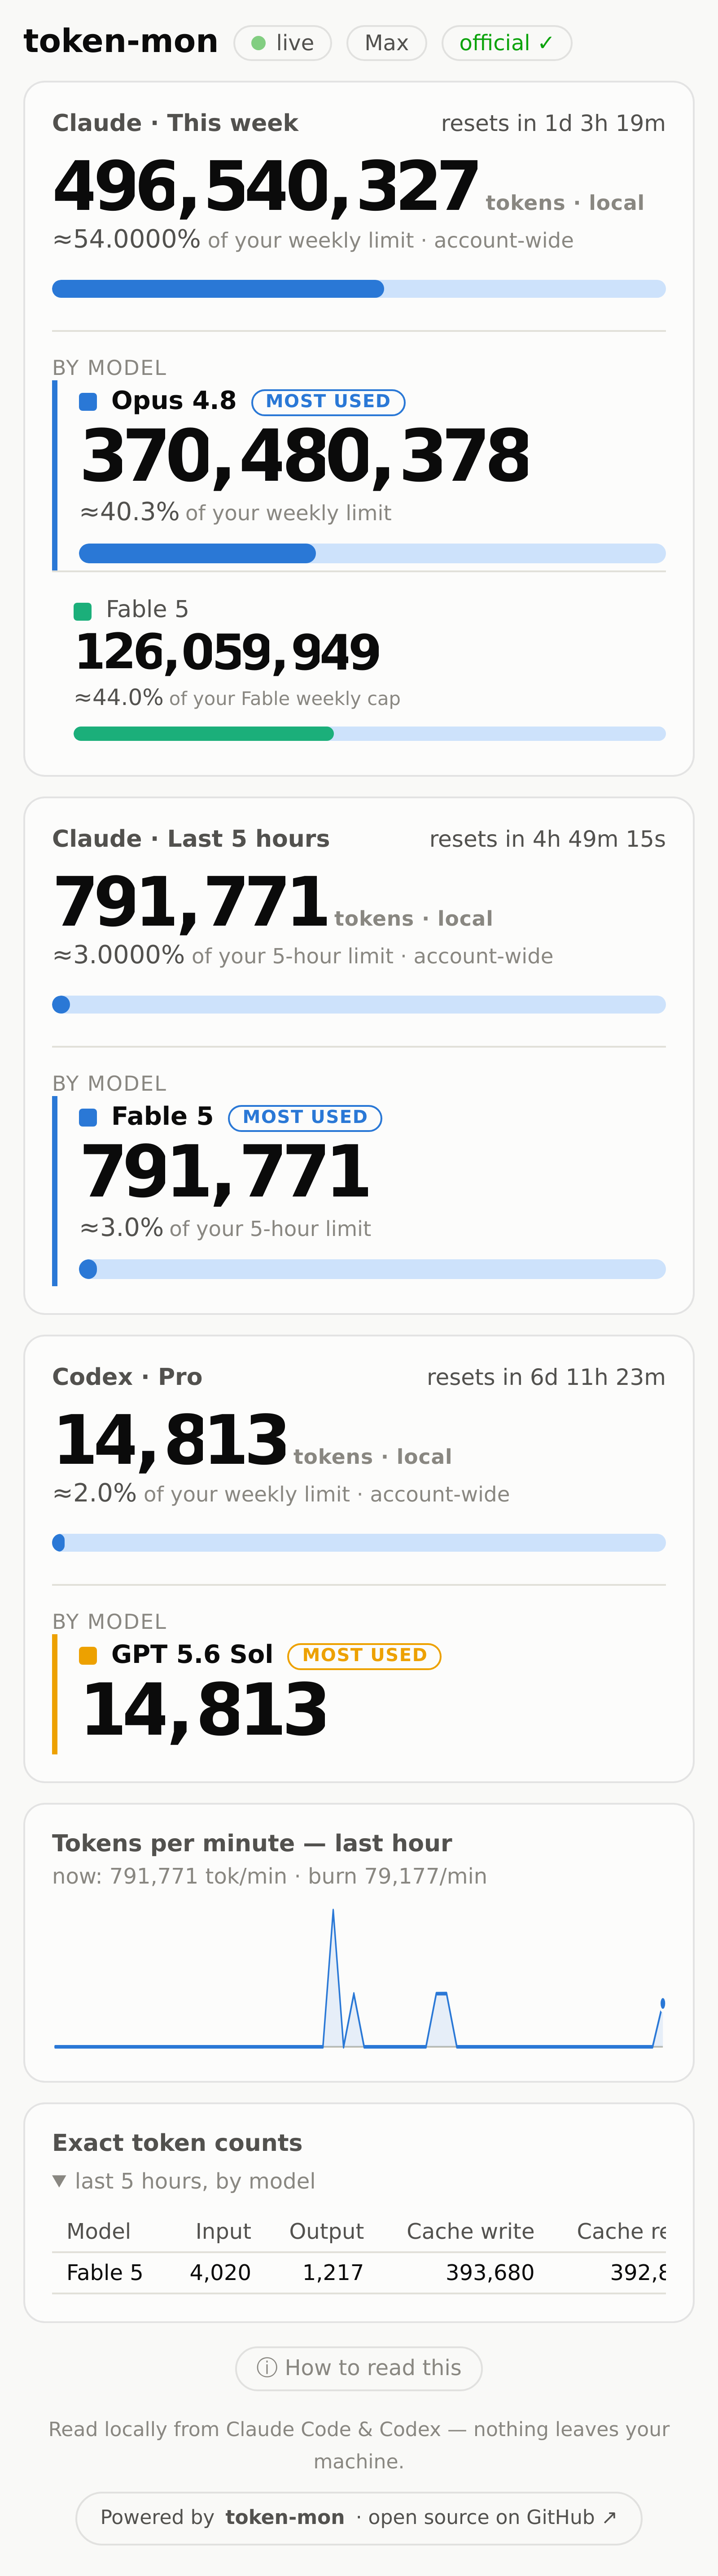
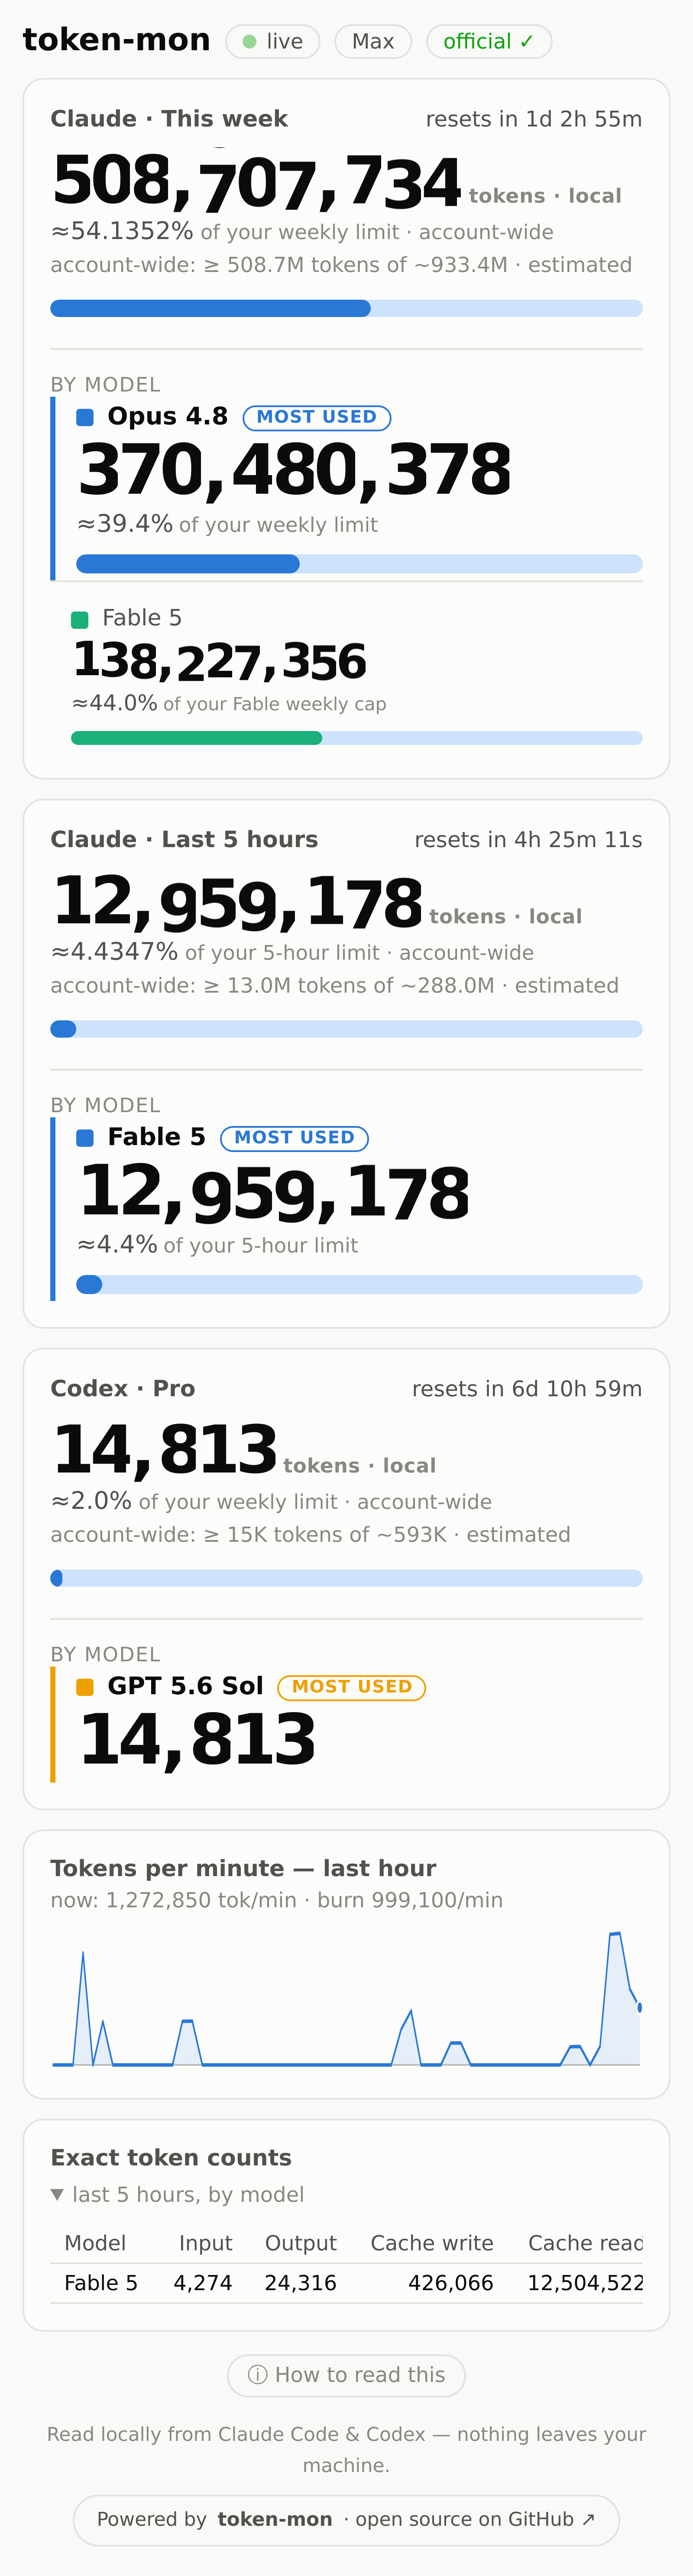
Best-effort account-wide token estimate
Neither provider exposes absolute account-wide numbers, so derive a floor: every
(local tokens, official %) reading bounds the account's tokens-per-percent from
below; cumulative and delta samples ratchet a persisted best ratio upward
(rounding-padded so it never overstates). Cards show
"account-wide: >= N tokens of ~L · estimated" under the percentage.

Claude-Session: https://claude.ai/code/session_01XbNfyBsCw2YkS5ZYWFRxGC

diff --git a/index.html b/index.html
@@ -73,6 +73,8 @@
   .unit { font-size:.30em; font-weight:600; color:var(--muted); margin-left:.4em; margin-bottom:.26em; letter-spacing:.02em; white-space:nowrap; }
   .hero-pct { font-size:14px; color:var(--ink-2); font-variant-numeric:tabular-nums; margin:3px 0 14px; }
   .hero-pct small { color:var(--muted); font-weight:400; }
+  .hero-est { font-size:12px; color:var(--muted); font-variant-numeric:tabular-nums; margin:-10px 0 13px; }
+  .hero-est:empty { display:none; }
   .meter { height:10px; border-radius:5px; background:var(--track); overflow:hidden; }
   .meter.sm { height:7px; }
   .meter .fill { height:100%; width:0%; background:var(--accent); border-radius:5px; transition:width .5s cubic-bezier(.22,1,.36,1), background-color .4s; }
@@ -141,6 +143,7 @@
     <div class="row-between"><div class="label">Claude · This week</div><div class="reset" id="wkReset"></div></div>
     <div class="hero-num"><span class="od" id="wkTok"></span><span class="unit">tokens · local</span></div>
     <div class="hero-pct">≈<span id="wkPctV">–</span>%<small> of your weekly limit · account-wide</small></div>
+    <div class="hero-est" id="wkEst"></div>
     <div class="meter"><div class="fill" id="wkFill"></div></div>
     <div class="bymodel-head">by model</div>
     <div id="wkModelWrap"></div>
@@ -151,6 +154,7 @@
     <div class="row-between"><div class="label">Claude · Last 5 hours</div><div class="reset" id="sessReset"></div></div>
     <div class="hero-num"><span class="od" id="sessTok"></span><span class="unit">tokens · local</span></div>
     <div class="hero-pct">≈<span id="sessPctV">–</span>%<small> of your 5-hour limit · account-wide</small></div>
+    <div class="hero-est" id="sessEst"></div>
     <div class="meter"><div class="fill" id="sessFill"></div></div>
     <div class="bymodel-head">by model</div>
     <div id="modelWrap"></div>
@@ -161,6 +165,7 @@
     <div class="row-between"><div class="label">Codex · <span id="cxPlan">–</span></div><div class="reset" id="cxReset"></div></div>
     <div class="hero-num"><span class="od" id="cxTok"></span><span class="unit">tokens · local</span></div>
     <div class="hero-pct">≈<span id="cxPctV">–</span>%<small> of your <span id="cxWin">weekly</span> limit · account-wide</small></div>
+    <div class="hero-est" id="cxEst"></div>
     <div class="meter"><div class="fill" id="cxFill"></div></div>
     <div class="bymodel-head" id="cxByHead" style="display:none">by model</div>
     <div id="cxModelWrap"></div>
@@ -195,7 +200,10 @@
       <p><b>Local vs account-wide.</b> The <b>≈percentages are account-wide</b> — they're the official
       figures, so they include every device, the web app, and mobile. The <b>token counts cover only this
       machine</b> (what its local logs contain). If you also use Claude or Codex elsewhere, the percentage will
-      read higher than these token counts alone would suggest — that's expected, not a bug.</p>
+      read higher than these token counts alone would suggest — that's expected, not a bug. The
+      <b>“account-wide: ≥ …” line is a best-effort estimate</b>: neither provider publishes absolute account
+      numbers, so it's derived by relating your local tokens to the official percentage over time. It's a
+      floor that sharpens the longer token-mon runs.</p>
       <p><b>Codex.</b> If OpenAI's Codex CLI is installed, its usage appears the same way — exact tokens from
       <code>~/.codex/sessions</code>, official percentages from your own ChatGPT login.</p>
       <p><b>Private.</b> Everything is computed locally from <code>~/.claude</code> and <code>~/.codex</code>;
@@ -308,12 +316,14 @@ function onSnapshot(s){
   wkTok.set(fmt(week.tokens.total));
   const wpct = week.pct==null ? 0 : week.pct;
   const wf=el("wkFill"); wf.className="fill "+sevClass(week.severity, wpct); wf.style.width=Math.min(100,wpct)+"%";
+  setEst("wkEst", week.acctEst, week.tokens.total);
   renderModelTickers("wkModelWrap", week.models||[], stWk, {limit:week.limit, total:week.tokens.total, scoped:week.scoped||[], noun:"weekly"});
 
   // LAST 5 HOURS — same shape
   sessTok.set(fmt(sess.tokens.total));
   const spct = sess.pct==null ? 0 : sess.pct;
   const sf=el("sessFill"); sf.className="fill "+sevClass(off.session&&off.session.severity, spct); sf.style.width=Math.min(100,spct)+"%";
+  setEst("sessEst", sess.acctEst, sess.tokens.total);
   renderModelTickers("modelWrap", sess.models||[], st5h, {limit:sess.limit, total:sess.tokens.total, scoped:[], noun:"5-hour"});
 
   renderCodex(s.codex);
@@ -363,6 +373,13 @@ function renderModelTickers(wrapId, models, st, opts){
   }
 }
 
+function setEst(id, est, localTok){
+  const n=el(id);
+  if(!est || !est.tokens){ n.textContent=""; return; }
+  const v=Math.max(est.tokens, localTok||0);
+  n.textContent=`account-wide: ≥ ${compact(v)} tokens of ~${compact(est.limit)} · estimated`;
+}
+
 function renderCodex(cx){
   const card=el("cxCard");
   if(!cx || !cx.ok){ card.style.display="none"; return; }
@@ -373,6 +390,7 @@ function renderCodex(cx){
   el("cxReset").dataset.reset=w.resets_at||"";
   const pct=w.pct==null?0:w.pct;
   el("cxPctV").textContent=Number(pct).toFixed(1);
+  setEst("cxEst", cx.acctEst, cx.tokens.total);
   const f=el("cxFill"); f.className="fill "+sevClass(null,pct); f.style.width=Math.min(100,pct)+"%";
   cxTok.set(fmt(cx.tokens.total));
   const models=cx.models||[];

diff --git a/server.py b/server.py
@@ -22,6 +22,7 @@ needed. Use --no-usage to disable the endpoint (transcripts only), or --plan /
 
 import argparse
 import json
+import os
 import re
 import subprocess
 import threading
@@ -513,6 +514,68 @@ class CodexUsage:
             time.sleep(backoff)
 
 
+class AcctEstimator:
+    """Best-effort estimate of ACCOUNT-WIDE tokens, which no provider exposes.
+
+    Principle: local tokens are a subset of account tokens, so any observed
+    (local tokens) / (official %) ratio is a LOWER bound on the account's
+    tokens-per-percent. We record the best ratio ever seen — from cumulative
+    window readings and from deltas between consecutive official readings
+    (intervals where only this machine was active converge to the true ratio).
+    Denominators are padded for the official %'s integer rounding, so the
+    estimate stays a floor, never an overstatement. Best ratios persist to disk
+    so the estimate sharpens over days, not per-run."""
+
+    def __init__(self, path):
+        self.path = path
+        self.lock = threading.Lock()
+        self.best = {}   # key -> tokens per 1% of the account limit
+        self.last = {}   # key -> (pct, tokens) anchor for delta samples
+        try:
+            d = json.load(open(path))
+            self.best = {k: float(v) for k, v in d.get("best", {}).items()}
+        except Exception:
+            pass
+
+    def _save(self):
+        try:
+            tmp = str(self.path) + ".tmp"
+            with open(tmp, "w") as f:
+                json.dump({"best": self.best}, f)
+            os.replace(tmp, self.path)
+        except OSError:
+            pass
+
+    def sample(self, key, local_tokens, pct):
+        if pct is None or local_tokens is None:
+            return
+        with self.lock:
+            updated = False
+            if pct >= 2:
+                r = local_tokens / (pct + 0.5)          # rounding-safe floor
+                if r > self.best.get(key, 0):
+                    self.best[key] = r
+                    updated = True
+            lp = self.last.get(key)
+            if lp is None or pct < lp[0] or local_tokens < lp[1]:
+                self.last[key] = (pct, local_tokens)    # window reset / first sight
+            elif pct - lp[0] >= 2:
+                r = (local_tokens - lp[1]) / (pct - lp[0] + 1.0)
+                if r > self.best.get(key, 0):
+                    self.best[key] = r
+                    updated = True
+                self.last[key] = (pct, local_tokens)
+            if updated:
+                self._save()
+
+    def estimate(self, key, pct, local_tokens):
+        r = self.best.get(key)
+        if not r or pct is None:
+            return None
+        # account usage can never be below what this machine alone produced
+        return {"tokens": max(pct * r, local_tokens or 0), "limit": 100 * r}
+
+
 def ev_total(e):
     return e["in"] + e["out"] + e["cw"] + e["cr"]
 
@@ -571,6 +634,7 @@ class State:
         self.fallback_limit = fallback_limit
         self.codex_scanner = codex_scanner
         self.codex_usage = codex_usage
+        self.est = AcctEstimator(Path(__file__).parent / ".state.json")
         self._cache = (0.0, None)
         self.lock = threading.Lock()
 
@@ -606,13 +670,18 @@ class State:
                                "resets_at": a.get("resets_at")})
         # Zero rows say nothing: drop models with no usage and no cap consumption.
         models = [m for m in models if m["total"] > 0 or (m.get("pct") or 0) > 0]
+        tokens = agg(win_events)
+        cx_pct = win.get("pct") if win else None
+        est_key = f"codex_{win['name']}" if win else "codex"
+        self.est.sample(est_key, tokens["total"], cx_pct)
         return {
             "ok": bool(cu.get("ok")),
             "error": cu.get("error"),
             "plan": cu.get("plan"),
             "window": win,
-            "tokens": agg(win_events),
+            "tokens": tokens,
             "models": models,
+            "acctEst": self.est.estimate(est_key, cx_pct, tokens["total"]),
             "meta": {"files": files, "events": len(events)},
         }
 
@@ -677,6 +746,12 @@ class State:
         weekly_limit = official.get("weekly_limit_calibrated") if off_ok else None
         week_pct = (week_tokens["total"] / weekly_limit * 100) if weekly_limit else None
 
+        # Feed the account-wide estimator with (local tokens, OFFICIAL %) pairs.
+        s_off = (official.get("session") or {}).get("pct") if off_ok else None
+        w_off = weekly_all.get("pct") if off_ok else None
+        self.est.sample("claude_5h", session_tokens["total"], s_off)
+        self.est.sample("claude_weekly", week_tokens["total"], w_off)
+
         burn_cut = now - timedelta(minutes=10)
         per_sec = sum(ev_total(e) for e in events if e["ts"] >= burn_cut) / 600.0
 
@@ -701,6 +776,7 @@ class State:
                 "limitLabel": limit_label,
                 "limitSource": limit_source,
                 "pct": (session_tokens["total"] / limit * 100) if limit else None,
+                "acctEst": self.est.estimate("claude_5h", s_off, session_tokens["total"]),
             },
             "week": {
                 "start": wstart.isoformat(),
@@ -713,6 +789,7 @@ class State:
                 "severity": weekly_all.get("severity", "normal"),
                 "scoped": official.get("weekly_models", []) if off_ok else [],
                 "source": "calibrated" if weekly_limit else "estimate",
+                "acctEst": self.est.estimate("claude_weekly", w_off, week_tokens["total"]),
             },
             "burn": {"perSec": per_sec, "perMin": per_sec * 60},
             "spark": spark,

diff --git a/README.md b/README.md
@@ -104,6 +104,11 @@ Manage it: `systemctl --user status token-mon` · `journalctl --user -u token-mo
 - **Percentages are approximate** (shown with a `≈`) — the underlying limits aren't
   published, so they're the official percentage sharpened with your exact tokens.
   Read a percentage as "about right," a token count as exact.
+- **The "account-wide: ≥ …" line is a best-effort estimate.** Neither provider
+  exposes absolute account numbers, so token-mon relates your local tokens to the
+  official percentage over time and reports a floor ("at least this many"). It
+  ratchets upward as evidence accumulates (state persists in `.state.json`) and is
+  most accurate when this machine does most of your usage.
 
 ## Privacy & caveats
 